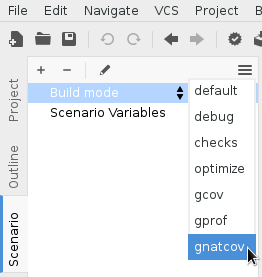
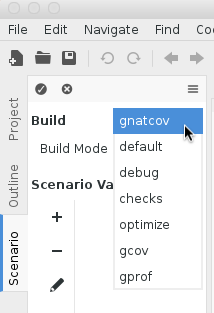
gnatcov manual: adjust the GPS section to the new GPS menu layouts
The Tools main menu morphed into Analyze. Adjust text and redo
screenshots.

Rephrase the paragraph referring to possible warnings in
GNATtest scenarii.

For Q927-033

(cherry picked from commit e6aceba0e31e2737fbc9d16160548045fcb634c6)

diff --git a/tools/gnatcov/doc/umanual/gps.rst b/tools/gnatcov/doc/umanual/gps.rst
@@ -20,17 +20,18 @@ will apply to all the other projects you work with in GPS.
 
 The next step is to tell |gps| to build your project for |gcp|, with the
 appropriate compilation options. In order to do this, open the Scenario view
-(:menuselection:`Tools --> Views --> Scenario`).
+(:menuselection:`View --> Scenario`).
 
 .. image:: gps_screenshots/1-build-mode.png
 
-Then, change the Build mode from ``default`` to ``gnatcov``.
+Change the Build mode from ``default`` to ``gnatcov`` and validate by clicking
+the round *tick* icon on the upper left corner of the view window.
 
 .. image:: gps_screenshots/2-build-mode.png
 
 GNATcoverage supports multiple coverage criteria. In order to select which one
-to use, go to the project properties (:menuselection:`Project -->
-Properties...`).
+to use, go to the project properties (:menuselection:`Edit -->
+Project Properties...`).
 
 .. image:: gps_screenshots/3-cov-level.png
 
@@ -39,15 +40,15 @@ and |gcvcov| in the corresponding *Coverage level* combo boxes. Change both to
 ``stmt+decision``.
 
 This is all for the setup part. The |gcvrun| and |gcvcov| steps are available
-for each main unit in the :menuselection:`Tools --> GNATcov` menu. First build
-your program (:menuselection:`Build --> Project --> Build All`), then execute
-the ``GNATcov run`` and the ``GNATcov coverage`` commands.
+for each main unit in the :menuselection:`Analyze --> Coverage --> GNATcov`
+menu. First build your program (:menuselection:`Build --> Project --> Build
+All`), then execute the ``GNATcov run`` and the ``GNATcov coverage`` commands.
 
 .. image:: gps_screenshots/4-run.png
 
 .. image:: gps_screenshots/5-coverage.png
 
-Each entry in the :menuselection:`Tools --> GNATcov --> GNATcov coverage`
+Each entry in the :menuselection:`Analyze --> Coverage --> GNATcov --> GNATcov coverage`
 submenu opens a Coverage Report tab which displays the ratio of source lines
 that are covered.
 
@@ -71,16 +72,16 @@ GNATtest scenario
 
 Using |gcp| |gtest|-based testsuite in |gps| comes naturally as the combination
 of both. Open the project you want to test and then generate the unit test
-setup for it. Using the menu: :menuselection:`Tools --> GNATtest --> Generate
+setup for it. Using the menu: :menuselection:`Analyze --> GNATtest --> Generate
 Unit Test Setup`.
 
 Write your testcases, and when you are ready to run your testsuite, switch to
 the ``gnatcov`` build mode, select the desired coverage criteria in the project
 properties. Now, build your program (:menuselection:`Build --> Project` menu),
-run it and launch a coverage analysis for it (:menuselection:`Tools -->
-GNATcov`).
+run it and launch a coverage analysis for it (:menuselection:`Analyze -->
+Coverage --> GNATcov`).
 
-Logs from |gcp| (in the Messages view) will include warnings which mention the
-various helper projects generated and used by the |gtest| setup, for instance
-AUnit. While this is not a problem for the coverage analysis, we plan to fix
-this so that this report includes only the project you are working on.
+Depending on your version of |gcp|, logs in the Messages view might include
+warnings which mention the various helper projects generated and used by the
+|gtest| setup, for instance AUnit. These should not influence coverage
+analysis results for the units of your project.
